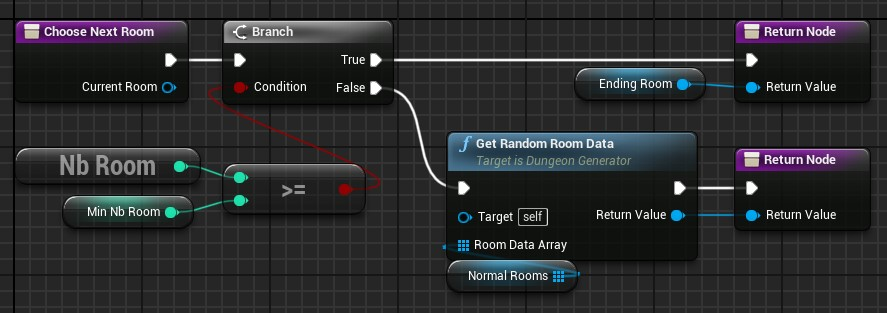
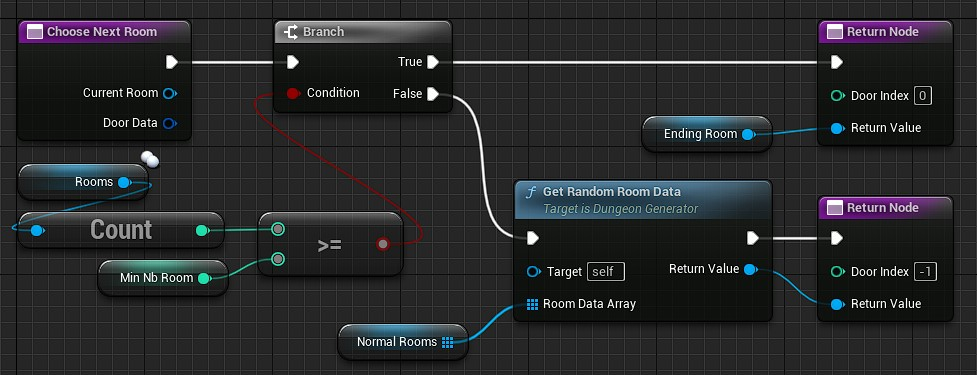
Updated ChooseNextRoomData

Changed region(s): [[0.0, 0.0288, 1.0, 0.9776], [0.0, 0.3163, 0.4566, 0.8051]]

diff --git a/Choose-Next-Room-Data.md b/Choose-Next-Room-Data.md
@@ -3,12 +3,15 @@ This function is run each time the generator tries to add a room to the dungeon.
 
 As input parameters:
 - `Current Room` is the room from which the generator will try to add the next room.\
-For example, the first time this function is called, the `Current Room` is the `RoomData` asset you have returned in the `ChooseFirstRoomData`.\
+For example, the first time this function is called, the `Current Room` is the `RoomData` asset you have returned in the [[`Choose First Room Data`|Choose First Room Data]] function.
 - `Door Data` is the door on which the next room will be connected to.\
 You have access to its location (expressed in room units, not in unreal units!), its orientation and its `DoorType`.
 
 As output:
-- `Return Value` is the `RoomData` asset you want to add as the next room. The value must be non-null and have at least one compatible door with `Door Data`.
+- `Return Value` is the `Room Data` asset you want to add as the next room. The value must be non-null and have at least one compatible door with `Door Data`.
+- `Door Index` is the index of the door (from the `Room Data` asset your return) used to connect with the `Current Room`.\
+If the index is negative, it will choose a random compatible door.\
+If you set a value, it will take the door at the same index in your `Room Data` asset (*make sure the door is compatible!*)
 
 Here an example of a simple dungeon made by `NbRoom` randomly chosen standard rooms before setting an exit room:\
 ![](Images/ChooseNextRoomData.jpg)
